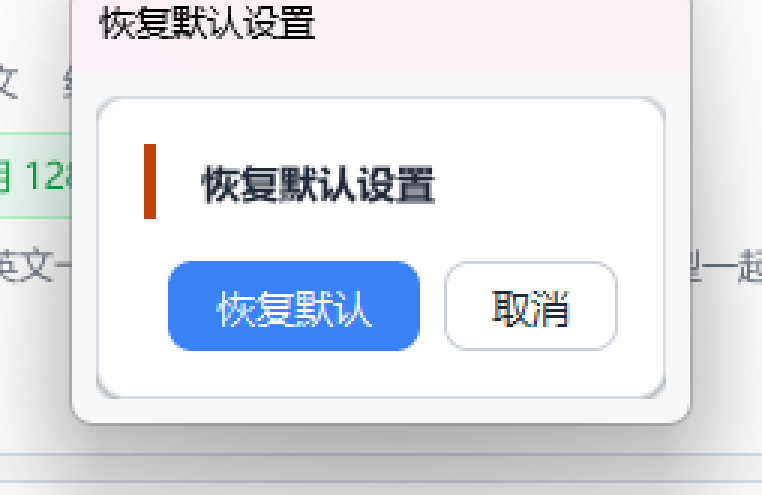
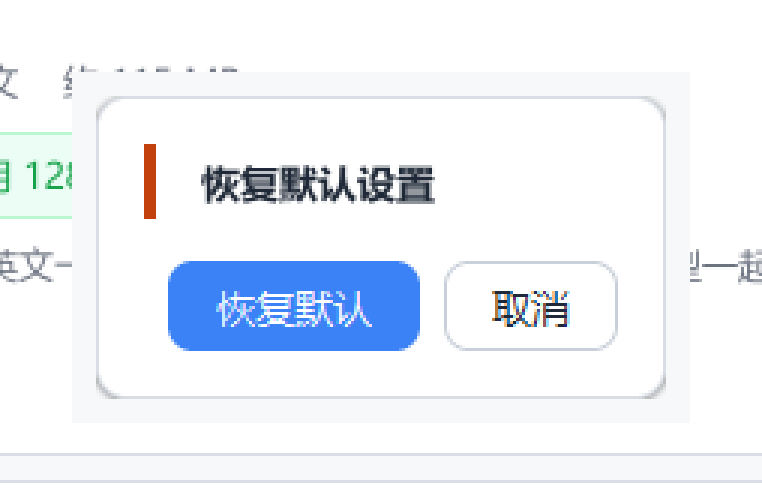
「恢复默认设置」确认框改成无边框卡片（按参考样式）
参考样式只有：橙色强调条 + 标题 + [恢复默认][取消] 两个按钮，没有 Windows 标题栏。

改动（app/dialogs.py 新增 frameless 参数）：
- frameless=True → overrideredirect(True)，弹窗就是那张圆角卡片（无标题栏、无 ×）
- 必须在窗口映射前设置：Toplevel 一创建就已映射，此时改边框样式不生效，
  所以 withdraw() → overrideredirect(True) → 内容建完 deiconify()
- 无边框窗口不会自动获得焦点，补 focus_force()，否则 Esc / Enter 收不到
- closable 参数保留（去掉 × 但保留标题栏的场景）；frameless 时无需 closable=False
- _on_restore_defaults：closable=False → frameless=True
- 按钮顺序本来就与参考图一致（恢复默认在左、取消在右），未改

验证：test_dialogs 扩到 28/28（新增：标题栏整个去掉 / 无 × / 其他确认框不受影响 /
无边框后 Esc 仍能取消）；其余回归全绿；exe 重出并冒烟

Changed region(s): [[0.0302, 0.0, 0.9659, 1.0], [0.1811, 0.1212, 0.3018, 0.1515]]

diff --git a/app/dialogs.py b/app/dialogs.py
@@ -114,14 +114,24 @@ def _center_on_parent(top: tk.Toplevel, master) -> None:
 
 
 def _build(master, title: str, message: str, buttons, tone: str, default: str,
-           closable: bool = True):
+           closable: bool = True, frameless: bool = False):
     """构建对话框并返回 (Toplevel, 结果字典, 关闭函数)。
 
-    closable=False：去掉标题栏右上角的关闭按钮，只留「确认 / 取消」两个操作
-    （用于需要用户明确表态的确认框，避免"点 × 就悄悄取消"）。
+    closable=False：去掉标题栏右上角的关闭按钮（标题栏仍在）。
+    frameless=True：**连整个标题栏都不要**（`overrideredirect`），弹窗就是那张圆角卡片
+                    —— 用于"一句话 + 两个按钮"的极简确认框（2026-10-01 按参考样式）。
+                    `overrideredirect` 必须在窗口**映射之前**设置。
     """
     top = tk.Toplevel(master)
     top.title(title)
+    if frameless:
+        try:
+            # Toplevel 一创建就已经映射了，此时再改边框样式**不生效**（窗口会照旧带标题栏，
+            # 或者干脆不显示）—— 先撤回、改完样式、等内容建好再 deiconify。
+            top.withdraw()
+            top.overrideredirect(True)
+        except Exception:  # noqa: BLE001
+            pass
     top.configure(bg=ui.COLOR_PAGE)
     top.resizable(False, False)
     try:
@@ -181,13 +191,23 @@ def _build(master, title: str, message: str, buttons, tone: str, default: str,
     top.bind("<Escape>", lambda _e: _close("cancel"))
     top.bind("<Return>", lambda _e: _close(default))
     top.protocol("WM_DELETE_WINDOW", lambda: _close("cancel"))
-    if not closable:
-        _hide_close_button(top)
+    if frameless:
+        try:
+            top.deiconify()              # 无边框样式已设好，现在才让它露面
+            top.lift()
+            # 无边框窗口不会由系统自动给焦点，不给的话 Esc / Enter 都收不到
+            top.focus_force()
+        except Exception:  # noqa: BLE001
+            pass
+    elif not closable:
+        _hide_close_button(top)          # 无边框时本就没有关闭按钮，无需处理
     return top, result, _close
 
 
-def _run(master, title, message, buttons, tone, default, closable: bool = True) -> str:
-    top, result, _close = _build(master, title, message, buttons, tone, default, closable)
+def _run(master, title, message, buttons, tone, default,
+         closable: bool = True, frameless: bool = False) -> str:
+    top, result, _close = _build(master, title, message, buttons, tone, default,
+                                 closable, frameless)
     try:
         top.grab_set()                 # 模态：必须先处理这个框
     except Exception:  # noqa: BLE001
@@ -205,22 +225,23 @@ def _run(master, title, message, buttons, tone, default, closable: bool = True) 
 
 def ask(master, title: str, message: str, ok_text: str = "确定",
         cancel_text: str = "取消", tone: str = "info", danger: bool = False,
-        closable: bool = True) -> bool:
+        closable: bool = True, frameless: bool = False) -> bool:
     """确认框（模态）：确定返回 True，取消/关闭返回 False。
 
     danger=True 时确定按钮用红色（删除这类不可逆操作）。
-    closable=False 时不显示标题栏的关闭按钮，只留两个操作按钮。
+    closable=False 时不显示标题栏的关闭按钮；frameless=True 时连标题栏都不要。
     """
     value = _run(master, title, message,
                  [{"text": cancel_text, "value": "cancel", "kind": "secondary"},
                   {"text": ok_text, "value": "ok",
                    "kind": "danger" if danger else "primary"}],
-                 tone, "ok", closable)
+                 tone, "ok", closable, frameless)
     return value == "ok"
 
 
 def tell(master, title: str, message: str, ok_text: str = "知道了",
-         tone: str = "info", closable: bool = True) -> None:
+         tone: str = "info", closable: bool = True, frameless: bool = False) -> None:
     """提示框（模态，只有一个按钮）：用于必须让用户看到的失败/结果说明。"""
     _run(master, title, message,
-         [{"text": ok_text, "value": "ok", "kind": "primary"}], tone, "ok", closable)
+         [{"text": ok_text, "value": "ok", "kind": "primary"}], tone, "ok",
+         closable, frameless)

diff --git a/tools/test_dialogs.py b/tools/test_dialogs.py
@@ -214,7 +214,7 @@ def main():
             root, "恢复默认设置", "",
             [{"text": "取消", "value": "cancel", "kind": "secondary"},
              {"text": "恢复默认", "value": "ok", "kind": "primary"}],
-            "warn", "ok", closable=False)
+            "warn", "ok", frameless=True)
         dialogs._center_on_parent(top, root)
         # 真实使用时由 wait_window 的事件循环完成收敛；这里手动跑几轮
         for _ in range(8):
@@ -258,13 +258,13 @@ def main():
     off = got.get("off") or (999, 999)
     check("弹窗居于设置窗口正中（客户区中心对齐，误差 ≤2px）",
           abs(off[0]) <= 2 and abs(off[1]) <= 2, f"偏移 Δx={off[0]} Δy={off[1]}")
-    check("已去掉标题栏的关闭按钮（WS_SYSMENU 被清）", not got.get("has_close"),
-          f"样式 {got.get('style')}")
-    check("标题栏本身还在（WS_CAPTION 保留 → 布局不变）", bool(got.get("has_caption")),
+    check("整个标题栏都已去掉（WS_CAPTION=False，弹窗就是那张圆角卡片）",
+          not got.get("has_caption"), f"样式 {got.get('style')}")
+    check("自然也没有关闭按钮（WS_SYSMENU=False）", not got.get("has_close"),
           f"样式 {got.get('style')}")
 
     def probe_normal_dialog():
-        """默认参数（closable=True）的弹窗应当仍有正常的关闭按钮。"""
+        """默认参数（closable=True）的弹窗应当仍有正常的标题栏与关闭按钮。"""
         root = settings.root
         top, _r, _c = dialogs._build(
             root, "删除模型", "要删吗？",
@@ -280,11 +280,36 @@ def main():
             except Exception:  # noqa: BLE001
                 style = 0
         top.destroy()
-        return bool(style & 0x00080000)
+        return bool(style & 0x00080000), bool(style & 0x00C00000)
 
-    check("其他确认框（默认参数）仍带关闭按钮，没被一起改掉",
-          bool(settings.run_in_ui(probe_normal_dialog, timeout=10)),
+    normal_close, normal_caption = settings.run_in_ui(probe_normal_dialog,
+                                                      timeout=10) or (False, False)
+    check("其他确认框（默认参数）仍带关闭按钮，没被一起改掉", bool(normal_close),
           "closable 默认 True")
+    check("其他确认框仍然保留标题栏（没被一起改成无边框）", bool(normal_caption),
+          "frameless 默认 False")
+
+    def probe_keys():
+        """无边框不该影响键盘：Esc 仍应取消（模态抓取 + 焦点强制都在）。"""
+        root = settings.root
+        top, r, _c = dialogs._build(
+            root, "键盘测试", "",
+            [{"text": "取消", "value": "cancel", "kind": "secondary"},
+             {"text": "确定", "value": "ok", "kind": "primary"}],
+            "info", "ok", frameless=True)
+        try:
+            top.grab_set()
+        except Exception:  # noqa: BLE001
+            pass
+        top.focus_force()
+        top.update_idletasks()
+        top.update()
+        top.event_generate("<Escape>")
+        top.update()
+        return r.get("value")
+
+    check("无边框后 Esc 仍能取消（键盘行为没被破坏）",
+          settings.run_in_ui(probe_keys, timeout=10) == "cancel", "模拟按下 Esc")
 
     settings.shutdown()
     time.sleep(0.5)

diff --git a/app/settings_window.py b/app/settings_window.py
@@ -1735,13 +1735,13 @@ class SettingsWindow:
         self._hide()
 
     def _on_restore_defaults(self) -> None:
-        # 简洁确认框：只要标题 + 「恢复默认 / 取消」两个按钮，不写说明文字 ——
-        # 标题已经说清要做什么，再堆一段"会改哪几项"反而让人多读一遍。
-        # closable=False：去掉标题栏的"×"，强制用户在两个按钮里明确选一个
-        # （2026-10-01 按主人给参考样式调整：不要角落那个不表态的关闭按钮）。
+        # 极简确认框（2026-10-01 按主人给的参考样式定稿）：
+        #   * 只要「强调条 + 标题 + 两个按钮」，不写说明文字（标题已经说清要做什么）；
+        #   * frameless=True —— 连 Windows 标题栏都不要，弹窗就是那张圆角卡片；
+        #     顺带没有"×"，用户只能在「恢复默认 / 取消」里明确选一个。
         if not dialogs.ask(
                 self.root, "恢复默认设置", "",
-                ok_text="恢复默认", tone="warn", closable=False):
+                ok_text="恢复默认", tone="warn", frameless=True):
             return
         self._pending_hotkey = DEFAULT_HOTKEY
         self._pending_quality = "fast"

diff --git a/tools/diag_dialog_restore.py b/tools/diag_dialog_restore.py
@@ -26,15 +26,19 @@ BOX = {}
 
 def show():
     root = settings.root
-    root.attributes("-topmost", True)
+    root.attributes("-topmost", False)      # 别把弹窗压在下面（真实使用时 <280ms 也会取消置顶）
     root.lift()
     root.update_idletasks()
     top, result, _close = dialogs._build(
         root, "恢复默认设置", "",
         [{"text": "取消", "value": "cancel", "kind": "secondary"},
          {"text": "恢复默认", "value": "ok", "kind": "primary"}],
-        "warn", "ok", closable=False)
+        "warn", "ok", frameless=True)
     dialogs._center_on_parent(top, root)
+    try:
+        top.attributes("-topmost", True)     # 让弹窗浮在设置窗口之上（截图用）
+    except Exception:  # noqa: BLE001
+        pass
     top.update_idletasks()
     top.update()
     time.sleep(0.4)
